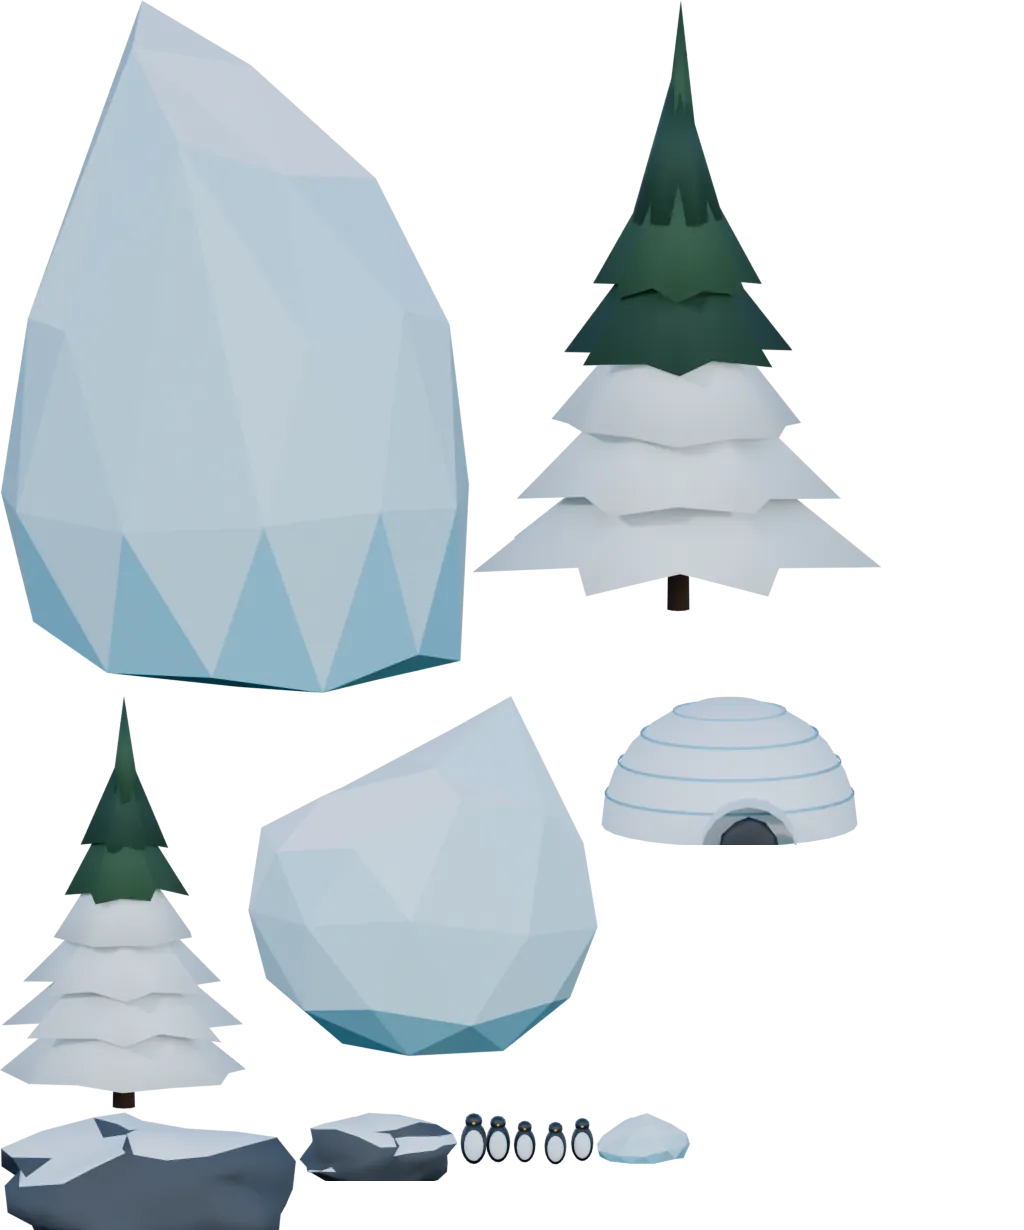
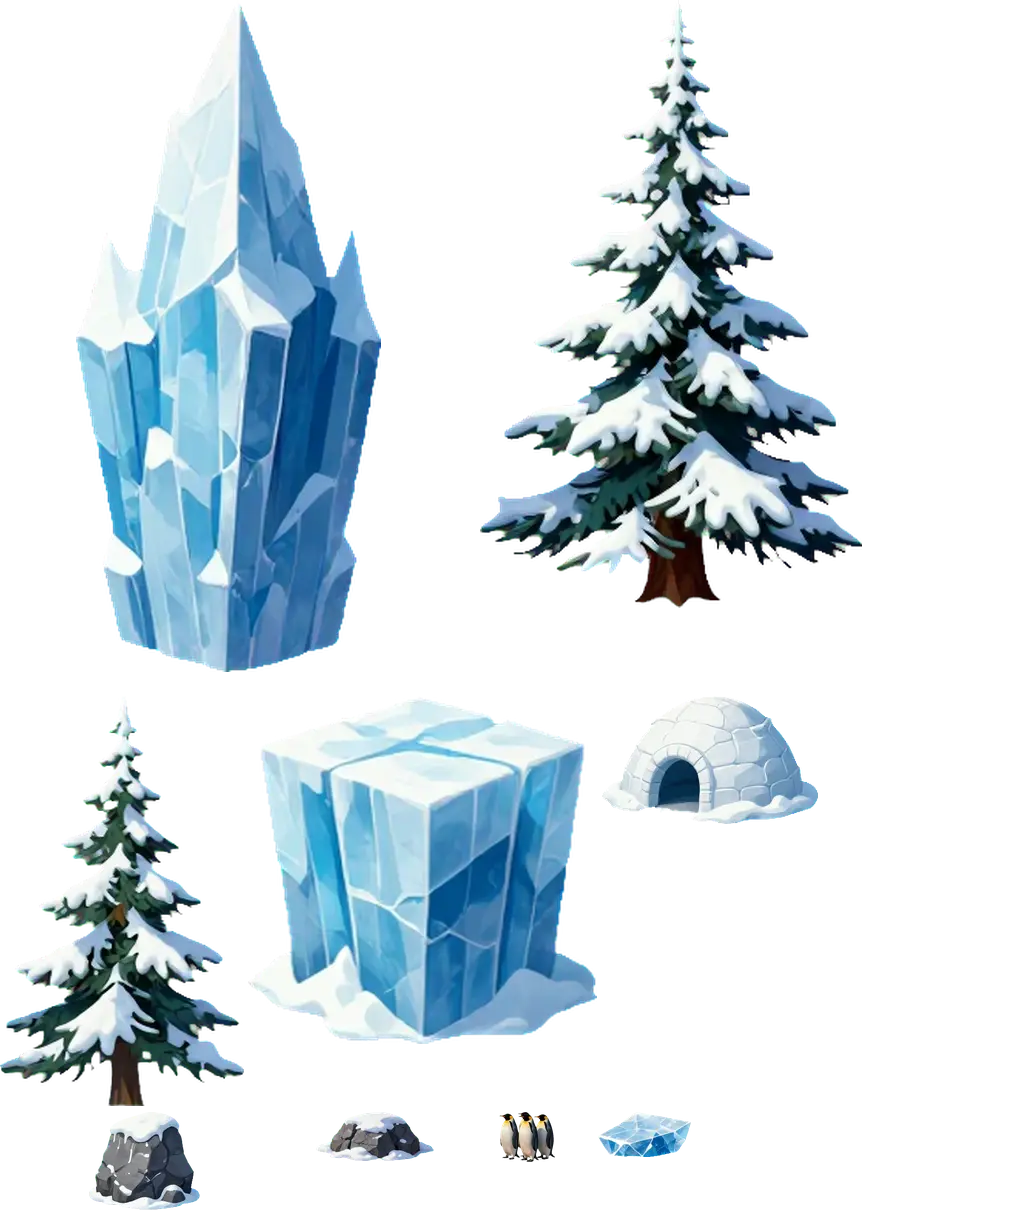
Bahía glaciar pintada con el estilo de los héroes
Claude-Session: https://claude.ai/code/session_01YU6HPKNqDAini2Aa6w3kXk

diff --git a/src/carrera.js b/src/carrera.js
@@ -230,6 +230,7 @@ Object.assign(PAISAJES, {
     nombre: 'Bahía glaciar',
     texto: 'Cumbres nevadas, témpanos a la deriva, iglús y pingüinos.',
     precio: 2100,
+    pintado: true,
     orilla: {
       piezas: {
         tempano_alto: { x: 0, y: 0, w: 470, h: 694, pie: [0.5, 0.969], m: 10.83 },

diff --git a/tools/paisaje-pintado/procesar.py b/tools/paisaje-pintado/procesar.py
@@ -111,7 +111,7 @@ def sin_costura(im):
 sin_costura(Image.open(G+f'{k}_suelo.png').convert('RGB')).resize((256,256),Image.LANCZOS).save(O+f'{k}_suelo.webp',quality=78)
 CAJA_AGUA={'canon':(120,70,512,430)}.get(k,(0,200,512,512))
 a=Image.open(G+f'{k}_agua.png').convert('RGB').crop(CAJA_AGUA).resize((512,512))
-ag=np.asarray(sin_costura(a)).astype(np.float32); cf={'canon':2.2,'otono':2.4}.get(k,1.0)
+ag=np.asarray(sin_costura(a)).astype(np.float32); cf={'canon':2.2,'otono':2.4,'glaciar':2.2}.get(k,1.0)
 ag=(ag-ag.reshape(-1,3).mean(0))*cf+ag.reshape(-1,3).mean(0)
 Image.fromarray(ag.clip(0,255).astype(np.uint8)).resize((256,256),Image.LANCZOS).save(O+f'{k}_agua3d.webp',quality=78)
 for f in sorted(os.listdir(O)): print(f, os.path.getsize(O+f))
